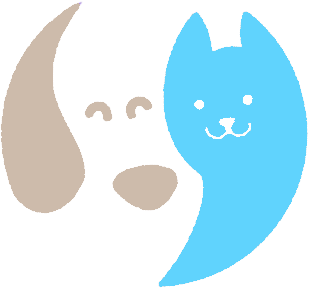
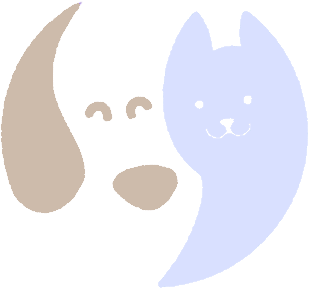
front-common-fix: dark mode blue color

Changed region(s): [[0.4951, 0.0312, 1.0, 1.0]]

diff --git a/Frontend/assets/css/common.css b/Frontend/assets/css/common.css
@@ -4,7 +4,7 @@
 :root {
     --beige: #FFF1DC;
     --brown: #BDA692;
-    --light-blue: #60d3fd;
+    --light-blue: #b5c3ff;
     --blue: #3A98B9;
     --light-gray: #f8f8f8;
     --gray: #eeeeee;
